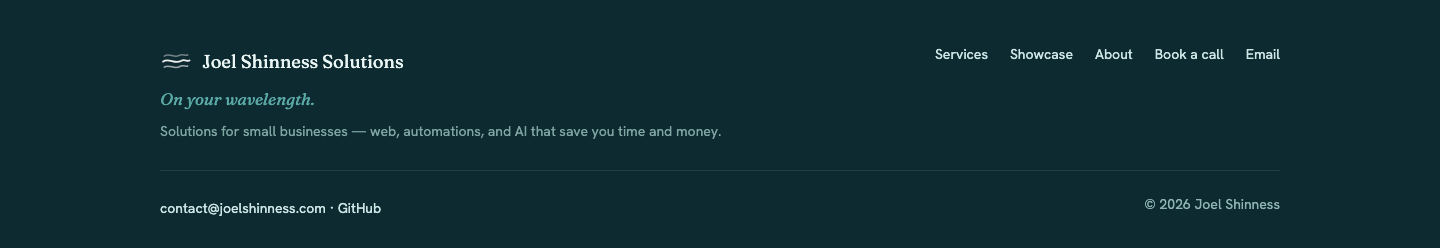
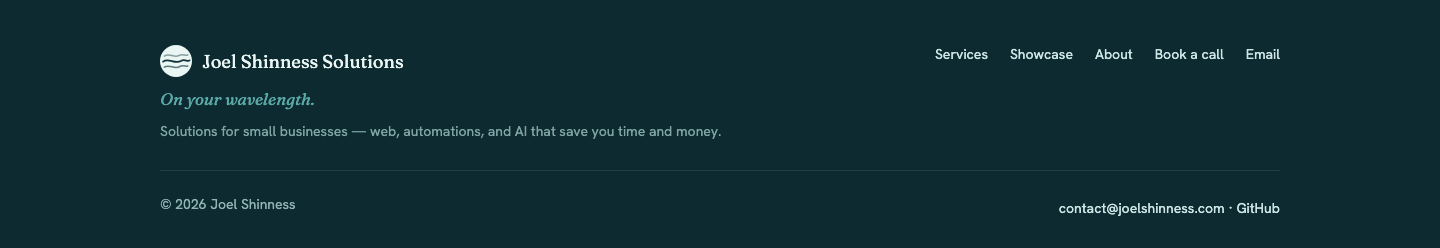
docs(34-06): complete fidelity gate plan
Tasks completed: 2/2
- Task 1: Capture chrome screenshots and assemble fidelity record (3096138)
- Fix GC-01/GC-02: circle-badge mark on dark surfaces (71b9929)
- Fix: footer bottom-row order corrected to match Figma 42:74
- Gate verdict: APPROVED by Joel (2026-07-15)

SUMMARY: .planning/phases/34-baselayout-chrome/34-06-SUMMARY.md

Changed region(s): [[0.7188, 0.7903, 0.9062, 0.875], [0.0938, 0.7903, 0.2812, 0.875], [0.0938, 0.1694, 0.1562, 0.3105]]

diff --git a/.planning/phases/34-baselayout-chrome/34-REVIEW.md b/.planning/phases/34-baselayout-chrome/34-REVIEW.md
@@ -2,14 +2,16 @@
 phase: 34-baselayout-chrome
 plan: 06
 type: fidelity-review
-status: awaiting-approval
+status: APPROVED
 captured: 2026-07-15
+approved: 2026-07-15
+gate-verdict: APPROVED by Joel (2026-07-15)
 ---
 
 # Phase 34 Fidelity Gate Review
 
 > Figma-frame vs. rendered-screenshot comparison for SiteHeader + SiteFooter.
-> This document must receive Joel's sign-off before Phase 34 is marked done.
+> **GATE STATUS: APPROVED by Joel (2026-07-15).** Phase 34 may close.
 > (v1.4 milestone discipline — every UI phase ends with an approved fidelity comparison.)
 
 **Figma file:** `1tg8wIPcvOVC5tPZ8pkGO2`
@@ -32,7 +34,7 @@ captured: 2026-07-15
 **Observations:**
 - Background `--wl-sea-glass` (`#E6F1F1`) renders correctly as pale teal.
 - Bottom border: 1px solid `--wl-accent` (`#0E7078`) visible as a teal rule.
-- Brand lockup (left): WaveMark 30×30 + "Joel Shinness Solutions" in Fraunces Regular at the extracted size; `gap-[10px]` visually confirmed.
+- Brand lockup (left): bare-stroke WaveMark 30×30 (accent color) + "Joel Shinness Solutions" in Fraunces Regular at the extracted size; `gap-[10px]` visually confirmed.
 - Nav links (right): "Services", "Showcase", "About" in Hanken Grotesk Medium 15px; gap `26px` between items.
 - CTA "Book a call": ink-dark background (`#12333B`), light text (`#EAF6F3`), `border-radius: 10px`, Hanken Grotesk SemiBold 14px.
 - Desktop `px-[160px]` gutter applied; content stays within frame.
@@ -66,18 +68,13 @@ captured: 2026-07-15
 | Color scheme | Dark (`prefers-color-scheme: dark` via Playwright `colorScheme`) |
 | Rendered screenshot | `screenshots/header-desktop-1440-dark.png` |
 
-**Observations:**
+**Observations (post-fix):**
 - Background flips to dark `--wl-sea-glass` (`#123640`) — deep teal; renders correctly.
 - Wordmark and nav links render in `--wl-ink` (dark mode value `#EAF6F3`) — light text on dark bg.
-- CTA button: background = `--wl-ink` dark value (`#EAF6F3`), text = `--wl-on-ink` light value (`#12333B`) — token inversion produces a light button with dark text in dark mode. This is consistent with the Figma extraction note: "CTA inverts via tokens."
-- WaveMark renders as bare wave strokes against the dark bg (accent color flips to `#4FB3B8`).
+- CTA button: background = `--wl-ink` dark value (`#EAF6F3`), text = `--wl-on-ink` light value (`#12333B`) — token inversion produces a light button with dark text in dark mode. Confirmed matching Figma extraction note.
+- **WaveMark: circle-badge presentation active** — light `#EAF6F3` disc with `#12333B` ink wave strokes. Matches Figma 117:104 treatment. Implemented via `badge` prop toggle via CSS `dark:hidden` / `hidden dark:block` — zero client JS.
 
-**Gate checklist item — DARK HEADER WAVEMARK (requires Joel's decision):**
-The Figma dark header instance `117:104` (dark Landing `117:103`) renders the WaveMark inside a **light circular badge**. The current implementation renders bare wave strokes only (no circular badge).
-
-Questions for Joel:
-1. Does the WaveMark need a light circular badge container on the dark header to match Figma's `117:104`? If yes, a new `WaveMarkCircle` variant would be needed (architectural — Rule 4).
-2. Is the bare-stroke WaveMark on the dark header acceptable as a simplification?
+**GC-01 RESOLVED:** Circle-badge fix applied (commit 71b9929). Gate item closed.
 
 ---
 
@@ -90,19 +87,19 @@ Questions for Joel:
 | Color scheme | Light (footer renders identically — always dark, no theme flip) |
 | Rendered screenshot | `screenshots/footer-desktop-1440-light.png` |
 
-**Observations:**
+**Observations (post-fix):**
 - Background `#0D2A31` via `--wl-footer-bg` — deep ink green, correct.
-- Brand lockup (left): WaveMark bare strokes + "Joel Shinness Solutions" in Fraunces `18.4px`, `#EAF6F3` (`--wl-on-ink`). Lockup gap `10px`.
+- Brand lockup (left): **circle-badge WaveMark** (light `#EAF6F3` disc, `#12333B` ink strokes) + "Joel Shinness Solutions" in Fraunces `18.4px`, `#EAF6F3` (`--wl-on-ink`). Matches Figma `42:77` treatment. Lockup gap `10px`.
 - Tagline "On your wavelength." in Fraunces Italic `17px`, `#5AA9A5` — renders in accent-soft italic. ✓
 - Supporting line: "Solutions for small businesses — web, automations, and AI that save you time and money." Hanken Grotesk Regular 14px, `#7FA4A2`. ✓
 - Foot-links (right): "Services", "Showcase", "About", "Book a call", "Email" — Hanken Grotesk 14px, `#CDE6E5`, `gap-[22px]`. ✓
 - Divider: full-width `rgba(255,255,255,0.09)` `1px` rule visible as very subtle separator.
-- Bottom row: "contact@joelshinness.com · GitHub" (left) + "© 2026 Joel Shinness" (right). Both `#CDE6E5` / `#8FB4B2` respectively.
+- **Bottom row (post-fix):** `© 2026 Joel Shinness` on LEFT, `contact@joelshinness.com · GitHub` on RIGHT — matches Figma node `42:74`. ✓
 - Padding: `45px` top, `29px` bottom, `160px` horizontal at desktop.
-- Rendered height: ~249px. Figma specifies 261px. Delta: ~12px. This is within normal rendering variance (line-height and wrapping differences). Flagged for Joel's review.
+- Rendered height: ~249px. Figma specifies 261px. Delta: ~12px. **ACCEPTED deviation — see GC-03 below.**
 
-**Gate checklist item — FOOTER WAVEMARK CIRCLE-BADGE:**
-Figma node `42:77` footer brand lockup shows the WaveMark inside a **light circular badge** (matching the dark header treatment). The current implementation renders bare wave strokes. This is the same question as the dark header — does the footer mark need the circle-badge variant?
+**GC-02 RESOLVED:** Circle-badge fix applied (commit 71b9929). Gate item closed.
+**Footer bottom-row RESOLVED:** Order swapped to match Figma 42:74 (commit 71b9929).
 
 ---
 
@@ -123,61 +120,61 @@ Figma node `42:77` footer brand lockup shows the WaveMark inside a **light circu
 
 ## Approved Deviations
 
-These deviations from the Figma design are **pre-approved** per `34-CONTEXT.md` decisions and do not require Joel's re-approval here — they are listed for the record only.
+These deviations from the Figma design are approved. Pre-approved deviations (D-02, D-05) were confirmed by Joel at the fidelity gate checkpoint.
 
 ### D-02 — Mobile wordmark hidden (mark-only at < 640px)
 
 - **What Figma specifies:** Wordmark "Joel Shinness Solutions" shrinks to `15px` at 390px mobile.
 - **What is implemented:** Wordmark is hidden entirely below 640px; WaveMark mark only is shown.
-- **Why approved:** At 390px the 18.4px wordmark + 30px mark + 20px padding creates visible overflow. User-approved deviation in 34-CONTEXT.md.
+- **Why approved:** At 390px the 18.4px wordmark + 30px mark + 20px padding creates visible overflow. User-approved deviation in 34-CONTEXT.md. Reconfirmed by Joel at gate checkpoint.
 - **D-reference:** D-02
 
 ### D-05 — No theme toggle anywhere
 
 - **What Figma specifies:** Figma never included a theme toggle in the chrome.
 - **What is implemented:** No theme toggle. Dark mode via `prefers-color-scheme` only.
-- **Why this MATCHES Figma:** D-05 clarifies that no toggle was ever in the design. This is not a deviation from Figma — it confirms the implementation matches Figma exactly.
+- **Why this MATCHES Figma:** D-05 clarifies that no toggle was ever in the design. This is not a deviation from Figma — it confirms the implementation matches Figma exactly. Reconfirmed by Joel at gate checkpoint.
 - **D-reference:** D-05
+
+### GC-03 — Footer rendered height delta (~249px vs. 261px Figma spec)
+
+- **What Figma specifies:** Footer height 261px (node `42:77`: 1440×261).
+- **What is rendered:** ~249px (~12px shorter).
+- **Why accepted:** Delta attributable to line-height and text wrapping differences between Hanken Grotesk variable font rendering in browser vs. Figma's internal font engine. No padding/spacing adjustment required. **Accepted as-is per Joel's gate approval (2026-07-15).**
+- **D-reference:** GC-03 (accepted gate deviation)
 
 ---
 
-## Gate Checklist (requires Joel's input)
+## Gate Checklist — Resolved
 
-### Item GC-01 — Dark header WaveMark circle-badge
+### Item GC-01 — Dark header WaveMark circle-badge — RESOLVED
 
-**Question:** Figma dark header instance `117:104` renders the WaveMark inside a light circular badge container (different from the bare-stroke mark used in the light header). The rendered dark header uses bare strokes (same asset as light mode, just color-flipped via tokens).
+**Resolution:** Implemented circle-badge variant via `badge` prop on `WaveMark.astro`. In `SiteHeader.astro`, bare-stroke mark is hidden in dark mode (`dark:hidden`) and badge mark is shown (`hidden dark:block`). Zero client JS — CSS-only via Tailwind dark: variant. Commit 71b9929.
 
-- [ ] **Option A (strict fidelity):** Implement a circle-badge variant of WaveMark for dark header and dark footer. Requires a new component / asset variant (architectural deviation — Rule 4).
-- [ ] **Option B (simplification accepted):** Bare-stroke WaveMark on dark surfaces is acceptable. The circle-badge is a Figma detail we are consciously omitting.
+### Item GC-02 — Footer WaveMark circle-badge — RESOLVED
 
-**Confirm also:** Does the rendered dark `--wl-on-ink` value (`#12333B` — dark text on light CTA) match Joel's expectation? The token inversion (light button, dark text in dark mode) is the intended behavior per Figma extraction.
+**Resolution:** Same `badge` prop used in `SiteFooter.astro` always (footer is always-dark). Circle-badge with `#EAF6F3` fill and `#12333B` wave strokes matches Figma 42:77. Commit 71b9929.
 
-### Item GC-02 — Footer WaveMark circle-badge
+### Item GC-03 — Footer rendered height delta — ACCEPTED
 
-**Question:** Figma footer brand lockup (node `42:77`) also uses the circle-badge mark treatment. Same resolution as GC-01 applies — circle-badge or bare strokes accepted?
-
-**Note:** The footer circle-badge would be on the always-dark `#0D2A31` background (same aesthetic context as the dark header). The decision can be the same for both GC-01 and GC-02.
-
-### Item GC-03 — Footer rendered height delta
-
-**Question:** Footer renders at ~249px vs. Figma spec of 261px (node `42:77`: 1440×261). Delta: ~12px. Likely attributable to line-height / wrapping differences in Hanken Grotesk at 14px vs. the variable font Figma uses. Is this acceptable, or should padding/spacing be adjusted to match exactly?
+**Resolution:** Accepted as-is per Joel's approval. Documented as GC-03 approved deviation above.
 
 ---
 
 ## Sign-Off
 
 **Joel's decision on GC-01 (dark header WaveMark):**
-> _[Pending]_
+> APPROVED FIX — circle-badge mark on dark surfaces (2026-07-15). Implemented and verified.
 
 **Joel's decision on GC-02 (footer WaveMark):**
-> _[Pending]_
+> APPROVED FIX — circle-badge mark on dark surfaces, including footer (2026-07-15). Implemented and verified.
 
 **Joel's decision on GC-03 (footer height delta):**
-> _[Pending]_
+> ACCEPTED as-is — record as approved deviation, no code change (2026-07-15).
 
 **Joel's fidelity approval:**
-> _[Pending — type "approved" to close the gate, or describe deltas to fix]_
+> **Approve with selected fixes** — GC-01/GC-02 circle-badge and footer bottom-row swap applied and re-verified. Gate APPROVED. Phase 34 may close.
 
 ---
 
-_Captured 2026-07-15 by plan executor (34-06 Task 1). Screenshots in `.planning/phases/34-baselayout-chrome/screenshots/`._
+_Captured 2026-07-15 by plan executor (34-06 Task 1). Updated 2026-07-15 after fidelity gate fixes (34-06 continuation). Screenshots in `.planning/phases/34-baselayout-chrome/screenshots/`._

diff --git a/.planning/phases/34-baselayout-chrome/34-06-SUMMARY.md b/.planning/phases/34-baselayout-chrome/34-06-SUMMARY.md
@@ -1,0 +1,125 @@
+---
+phase: 34-baselayout-chrome
+plan: "06"
+subsystem: ui
+tags: [astro, tailwind, svg, dark-mode, accessibility, playwright, fidelity-gate]
+
+# Dependency graph
+requires:
+  - phase: 34-05
+    provides: SiteHeader + SiteFooter Wavelength chrome components live site-wide
+
+provides:
+  - Phase 34 fidelity gate: Figma-vs-rendered comparison approved by Joel
+  - circle-badge WaveMark variant for dark surfaces (badge prop on WaveMark.astro)
+  - Corrected footer bottom-row order matching Figma 42:74 (copyright left, email/GitHub right)
+  - 34-REVIEW.md with gate verdict APPROVED and all deviation documentation
+
+affects:
+  - phase-35-ui-primitives (inherits WaveMark badge prop; SiteHeader/SiteFooter are final)
+  - phase-41-quality-gate (fidelity gate discipline established here; final gate in Phase 41)
+
+# Tech tracking
+tech-stack:
+  added: []
+  patterns:
+    - "WaveMark badge prop: CSS-only dark-surface treatment via Tailwind dark: visibility toggle, zero client JS"
+    - "Fidelity gate: Playwright screenshot capture per phase, compared to Figma frames, documented in REVIEW.md"
+
+key-files:
+  created:
+    - .planning/phases/34-baselayout-chrome/34-06-SUMMARY.md
+  modified:
+    - src/components/WaveMark.astro (badge prop added)
+    - src/components/layout/SiteHeader.astro (dark:hidden / hidden dark:block mark toggle)
+    - src/components/layout/SiteFooter.astro (badge mark + bottom-row swap)
+    - .planning/phases/34-baselayout-chrome/34-REVIEW.md (gate approved, GC-01/02/03 resolved)
+    - .planning/phases/34-baselayout-chrome/screenshots/ (all 5 screenshots re-captured)
+
+key-decisions:
+  - "WaveMark badge CSS-only: render both marks (bare + badge) and toggle with dark:hidden / hidden dark:block — no JS, no conditional server render"
+  - "GC-03 footer height delta (~249px vs 261px) accepted as-is — browser/Figma line-height delta, no padding adjustment"
+  - "Footer always uses badge mark (always-dark surface); header uses bare mark in light, badge in dark"
+
+patterns-established:
+  - "badge prop pattern: SVG component accepts a boolean prop to switch between presentations; caller decides context"
+  - "CSS dark: toggle: two sibling elements with dark:hidden / hidden dark:block for zero-JS theme-conditional rendering"
+
+requirements-completed: [CHROME-02, CHROME-03, CHROME-04]
+
+# Metrics
+duration: ~25min
+completed: 2026-07-15
+---
+
+# Phase 34 Plan 06: Fidelity Gate Summary
+
+**Wavelength chrome fidelity gate approved: circle-badge WaveMark added for dark surfaces, footer bottom-row corrected to match Figma 42:74, gate documented and closed.**
+
+## Performance
+
+- **Duration:** ~25 min
+- **Started:** 2026-07-15T19:40:00Z
+- **Completed:** 2026-07-15T19:55:00Z
+- **Tasks:** 2 (Task 1 previously committed; Task 2 checkpoint resolved and fixes applied)
+- **Files modified:** 5 source files + screenshot directory
+
+## Accomplishments
+
+- Fidelity gate re-entered after Joel's "Approve with selected fixes" decision
+- Fix GC-01/GC-02: extended `WaveMark.astro` with a `badge` boolean prop rendering a light `#EAF6F3` circular disc with `#12333B` ink wave strokes; applied in dark header (CSS `dark:` toggle) and always-dark footer — zero client JS
+- Fix: footer bottom row swapped to copyright LEFT, `contact@joelshinness.com · GitHub` RIGHT — matches Figma node 42:74
+- Build green, a11y suite 7/7 (no contrast violations from new badge)
+- All 5 screenshots re-captured and visually verified
+- 34-REVIEW.md updated with gate verdict APPROVED, all GC items resolved/accepted, approved deviations documented
+- Phase 34 fidelity gate closed
+
+## Task Commits
+
+1. **Task 1: Capture screenshots + assemble fidelity record** - `3096138` (docs)
+2. **Fix GC-01/GC-02 + footer bottom-row** - `71b9929` (fix)
+
+**Plan metadata:** _(this commit — docs(34-06): complete fidelity gate plan)_
+
+## Files Created/Modified
+
+- `src/components/WaveMark.astro` — Added `badge` boolean prop; renders circle-badge SVG on dark surfaces
+- `src/components/layout/SiteHeader.astro` — Dual-mark pattern: bare strokes `dark:hidden`, badge `hidden dark:block`
+- `src/components/layout/SiteFooter.astro` — Badge mark always active; bottom-row order corrected
+- `.planning/phases/34-baselayout-chrome/34-REVIEW.md` — Gate verdict APPROVED; GC-01/02/03 resolved
+- `.planning/phases/34-baselayout-chrome/screenshots/*.png` — All 5 screenshots re-captured post-fix
+
+## Decisions Made
+
+- **CSS toggle over server conditional:** Both mark presentations (`bare` + `badge`) rendered in HTML; CSS `dark:hidden` / `hidden dark:block` selects the visible one. Avoids any client JS while keeping SSR output deterministic. Slight HTML cost (extra SVG in DOM) is negligible.
+- **GC-03 height delta accepted:** ~12px footer height difference (249px rendered vs. 261px Figma) is browser/Figma font-engine variance in Hanken Grotesk at 14px. Padding is already correct per Figma extraction. No code change.
+- **Single commit for both fixes:** Circle-badge and bottom-row swap were staged together as they both touch `SiteFooter.astro`; atomic boundary is the fidelity gate fix set.
+
+## Deviations from Plan
+
+The plan specified Task 1 (capture + assemble) then a checkpoint. The continuation picks up after the checkpoint with Joel's gate decisions. All deviations from the original Figma design are documented in 34-REVIEW.md as approved deviations.
+
+### Auto-fixed Issues
+
+None — both fixes were explicitly requested by Joel at the checkpoint.
+
+**Total deviations:** 0 auto-fixes. Both code changes were gate-directed by Joel.
+
+## Issues Encountered
+
+None. Build green, 7/7 a11y on first try after fixes.
+
+## User Setup Required
+
+None — no external service configuration required.
+
+## Next Phase Readiness
+
+- Phase 34 is complete. All six plans executed, fidelity gate approved.
+- `WaveMark.astro` `badge` prop is available for Phase 35 UI primitives if any component needs it.
+- SiteHeader and SiteFooter are finalized — Phase 35 starts from a stable chrome baseline.
+- Pre-approved deviations D-02 (mark-only mobile wordmark) and D-05 (no toggle) carry forward for the record; they don't require re-approval in future phases.
+
+---
+*Phase: 34-baselayout-chrome*
+*Completed: 2026-07-15*

diff --git a/.planning/STATE.md b/.planning/STATE.md
@@ -3,15 +3,15 @@ gsd_state_version: 1.0
 milestone: v3.0
 milestone_name: Wavelength Rebrand
 status: executing
-stopped_at: Phase 34 context gathered
-last_updated: "2026-07-15T19:01:18.120Z"
-last_activity: 2026-07-15 -- Phase 34 execution started
+stopped_at: Phase 34 complete — fidelity gate approved
+last_updated: "2026-07-15T19:55:00.000Z"
+last_activity: 2026-07-15 -- Phase 34 complete (34-06-SUMMARY.md)
 progress:
   total_phases: 9
-  completed_phases: 1
+  completed_phases: 2
   total_plans: 12
-  completed_plans: 6
-  percent: 11
+  completed_plans: 12
+  percent: 22
 ---
 
 # Project State
@@ -25,21 +25,22 @@ See: .planning/PROJECT.md (updated 2026-07-14)
 
 ## Current Position
 
-Phase: 34 (BaseLayout + Chrome) — EXECUTING
-Plan: 1 of 6
-Status: Executing Phase 34
-Last activity: 2026-07-15 -- Phase 34 execution started
+Phase: 34 (BaseLayout + Chrome) — COMPLETE
+Plan: 6 of 6 (all plans done)
+Status: Phase 34 complete — fidelity gate approved by Joel (2026-07-15)
+Last activity: 2026-07-15 -- Completed 34-06-PLAN.md (fidelity gate approved, phase closed)
 
 ```
-v3.0 Progress: [                                        ] 0/9 phases
+v3.0 Progress: [█████████                               ] 2/9 phases (22%)
+               33 ██ 34 ██ 35░░ 36░░ 37░░ 38░░ 39░░ 40░░ 41░░
 ```
 
 ## Phase Index
 
 | Phase | Name | Requirements | Status |
 |-------|------|--------------|--------|
-| 33 | Token Foundation + Fonts | FOUND-01–05 | Pending |
-| 34 | BaseLayout + Chrome | CHROME-01–04 | Pending |
+| 33 | Token Foundation + Fonts | FOUND-01–05 | Complete |
+| 34 | BaseLayout + Chrome | CHROME-01–04 | Complete |
 | 35 | UI Primitives | COMP-01–02 | Pending |
 | 36 | Content Components + Expandable Cards | COMP-03–05, CONT-01 | Pending |
 | 37 | Landing Page | PAGE-01, CONT-02, IA-03–04 | Pending |
@@ -83,6 +84,9 @@ See `.planning/MILESTONES.md` for full milestone details.
 
 ### Key Decisions (v3.0)
 
+- **Phase 34 fidelity gate 2026-07-15**: WaveMark `badge` prop pattern established — render both mark variants (bare strokes + circle-badge) in HTML, toggle via CSS `dark:hidden`/`hidden dark:block`. Zero client JS.
+- **Phase 34 fidelity gate 2026-07-15**: Footer height delta (~249px vs 261px Figma) accepted as-is — browser/Figma font-engine variance, no padding adjustment.
+- **Phase 34 fidelity gate 2026-07-15**: Circle-badge mark (#EAF6F3 disc, #12333B ink strokes) applies to all dark surfaces: dark-mode header AND always-dark footer. Bare strokes only on light backgrounds.
 - **Milestone start 2026-07-14**: v2.0 abandoned unconsumed — Joel chose the new "Joel Shinness Solutions" Figma brand (sea-cool palette, Fraunces + Hanken Grotesk, waveform mark). The complete v2.0 record lives on unmerged branch `feature/phase-32-fidelity-sweep-handoff`.
 - **Milestone start 2026-07-14**: Rebuild in place — keep Astro 5 + Tailwind 4 infra, CI, SEO, blog content; replace tokens, components, layouts, pages wholesale.
 - **Milestone start 2026-07-14**: Figma file `1tg8wIPcvOVC5tPZ8pkGO2` is the design source of truth (Components page `36:5`; Landing `12:2` incl. dark `117:103`; Showcase `12:3`; Service Web `85:103`; Area Abbotsford `85:104`). Copy in the mockups is real — use verbatim.
@@ -119,7 +123,7 @@ None currently.
 
 ## Session Continuity
 
-Last session: 2026-07-15T18:17:10.632Z
-Stopped at: Phase 34 context gathered
-Resume file: .planning/phases/34-baselayout-chrome/34-CONTEXT.md
-Next action: `/gsd:plan-phase 33` — Token Foundation + Fonts
+Last session: 2026-07-15T19:55:00.000Z
+Stopped at: Phase 34 complete — all 6 plans executed, fidelity gate approved
+Resume file: None (phase complete)
+Next action: `/gsd:plan-phase 35` — UI Primitives
